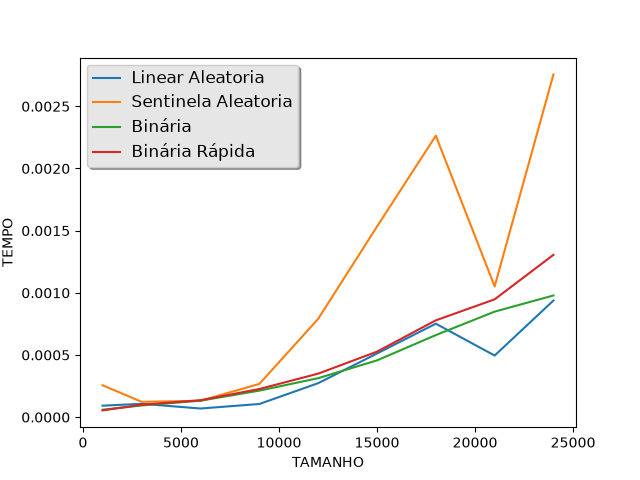
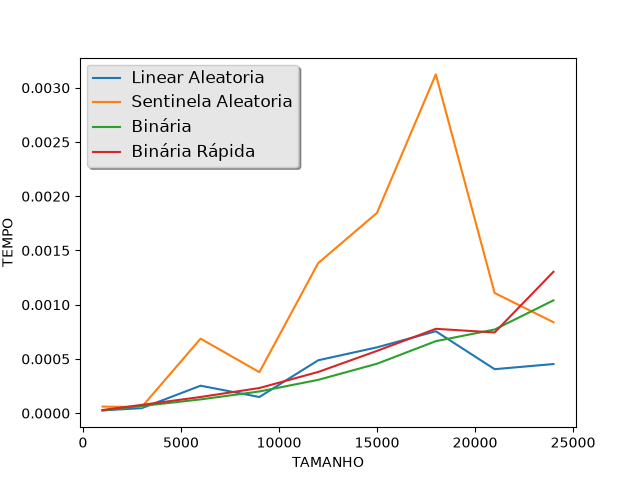
Adiciona a função de profundidade na árvore

diff --git a/questao20.py b/questao20.py
@@ -64,6 +64,18 @@ class Arvore:
     p = no.subir(p)
 
     return p
+  
+  def profundideArvoreRecursivo(self):
+        if len(self.filho) == 0:
+            return 0
+
+        maior = 0
+        for no in self.filho:
+            pFilho = no.profundideArvoreRecursivo()
+            if pFilho > maior:
+                maior = pFilho
+
+        return 1 + maior
 
 
   # Iterativo
@@ -111,6 +123,17 @@ class Arvore:
     while no is not None:
       p += 1
       no = no.pai
+
+    return p
+
+  def profundideArvore(self):
+    p = 0
+    arvore = [self]
+
+    while arvore:
+        no = arvore.pop()
+        p = max(p, self.profundidadeNo(no.valor))
+        arvore.extend(no.filho)
 
     return p
 
@@ -164,6 +187,8 @@ print('A soma de todos os nós é: ', raiz.somaNoRecursivo(0))
 v = 9
 print(f'A profundidade de {v} é: {raiz.profundidadeNoRecursivo(v, -1)}')
 
+print(f'A profundidade da árvore é: {raiz.profundideArvoreRecursivo()}')
+
 
 
 print('\n########Funções iterativas#########')
@@ -175,3 +200,4 @@ print('A soma de todos os nós é: ', raiz.somaNo())
 v = 9
 print(f'A profundidade de {v} é: {raiz.profundidadeNo(v)}')
 
+print(f'A profundidade da árvore é: {raiz.profundideArvore()}')
